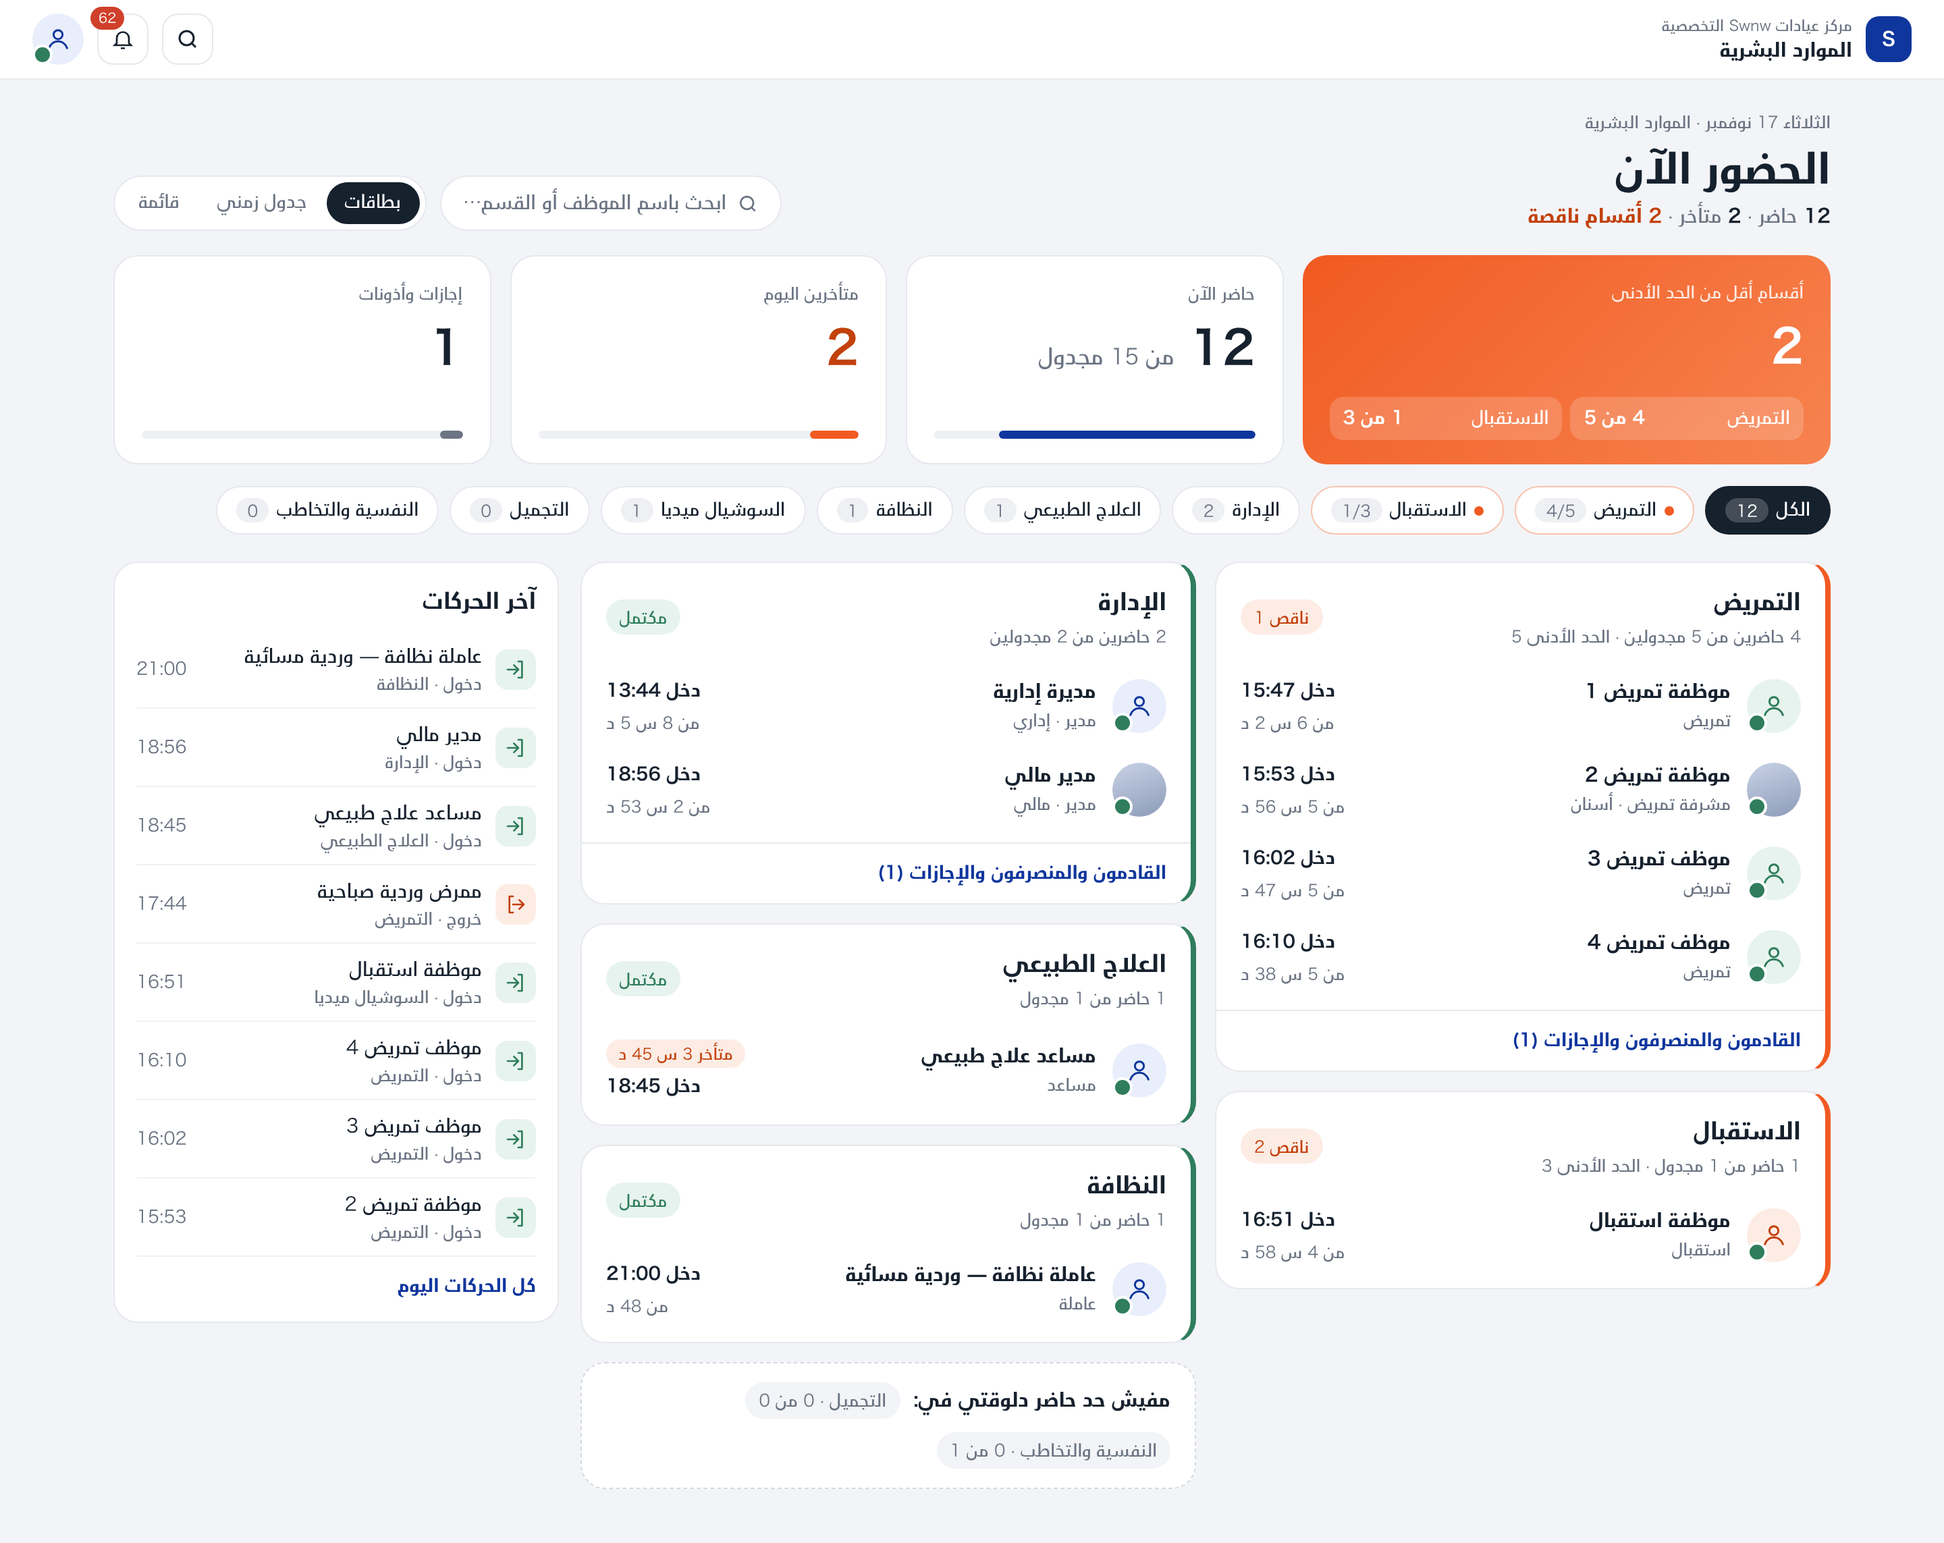
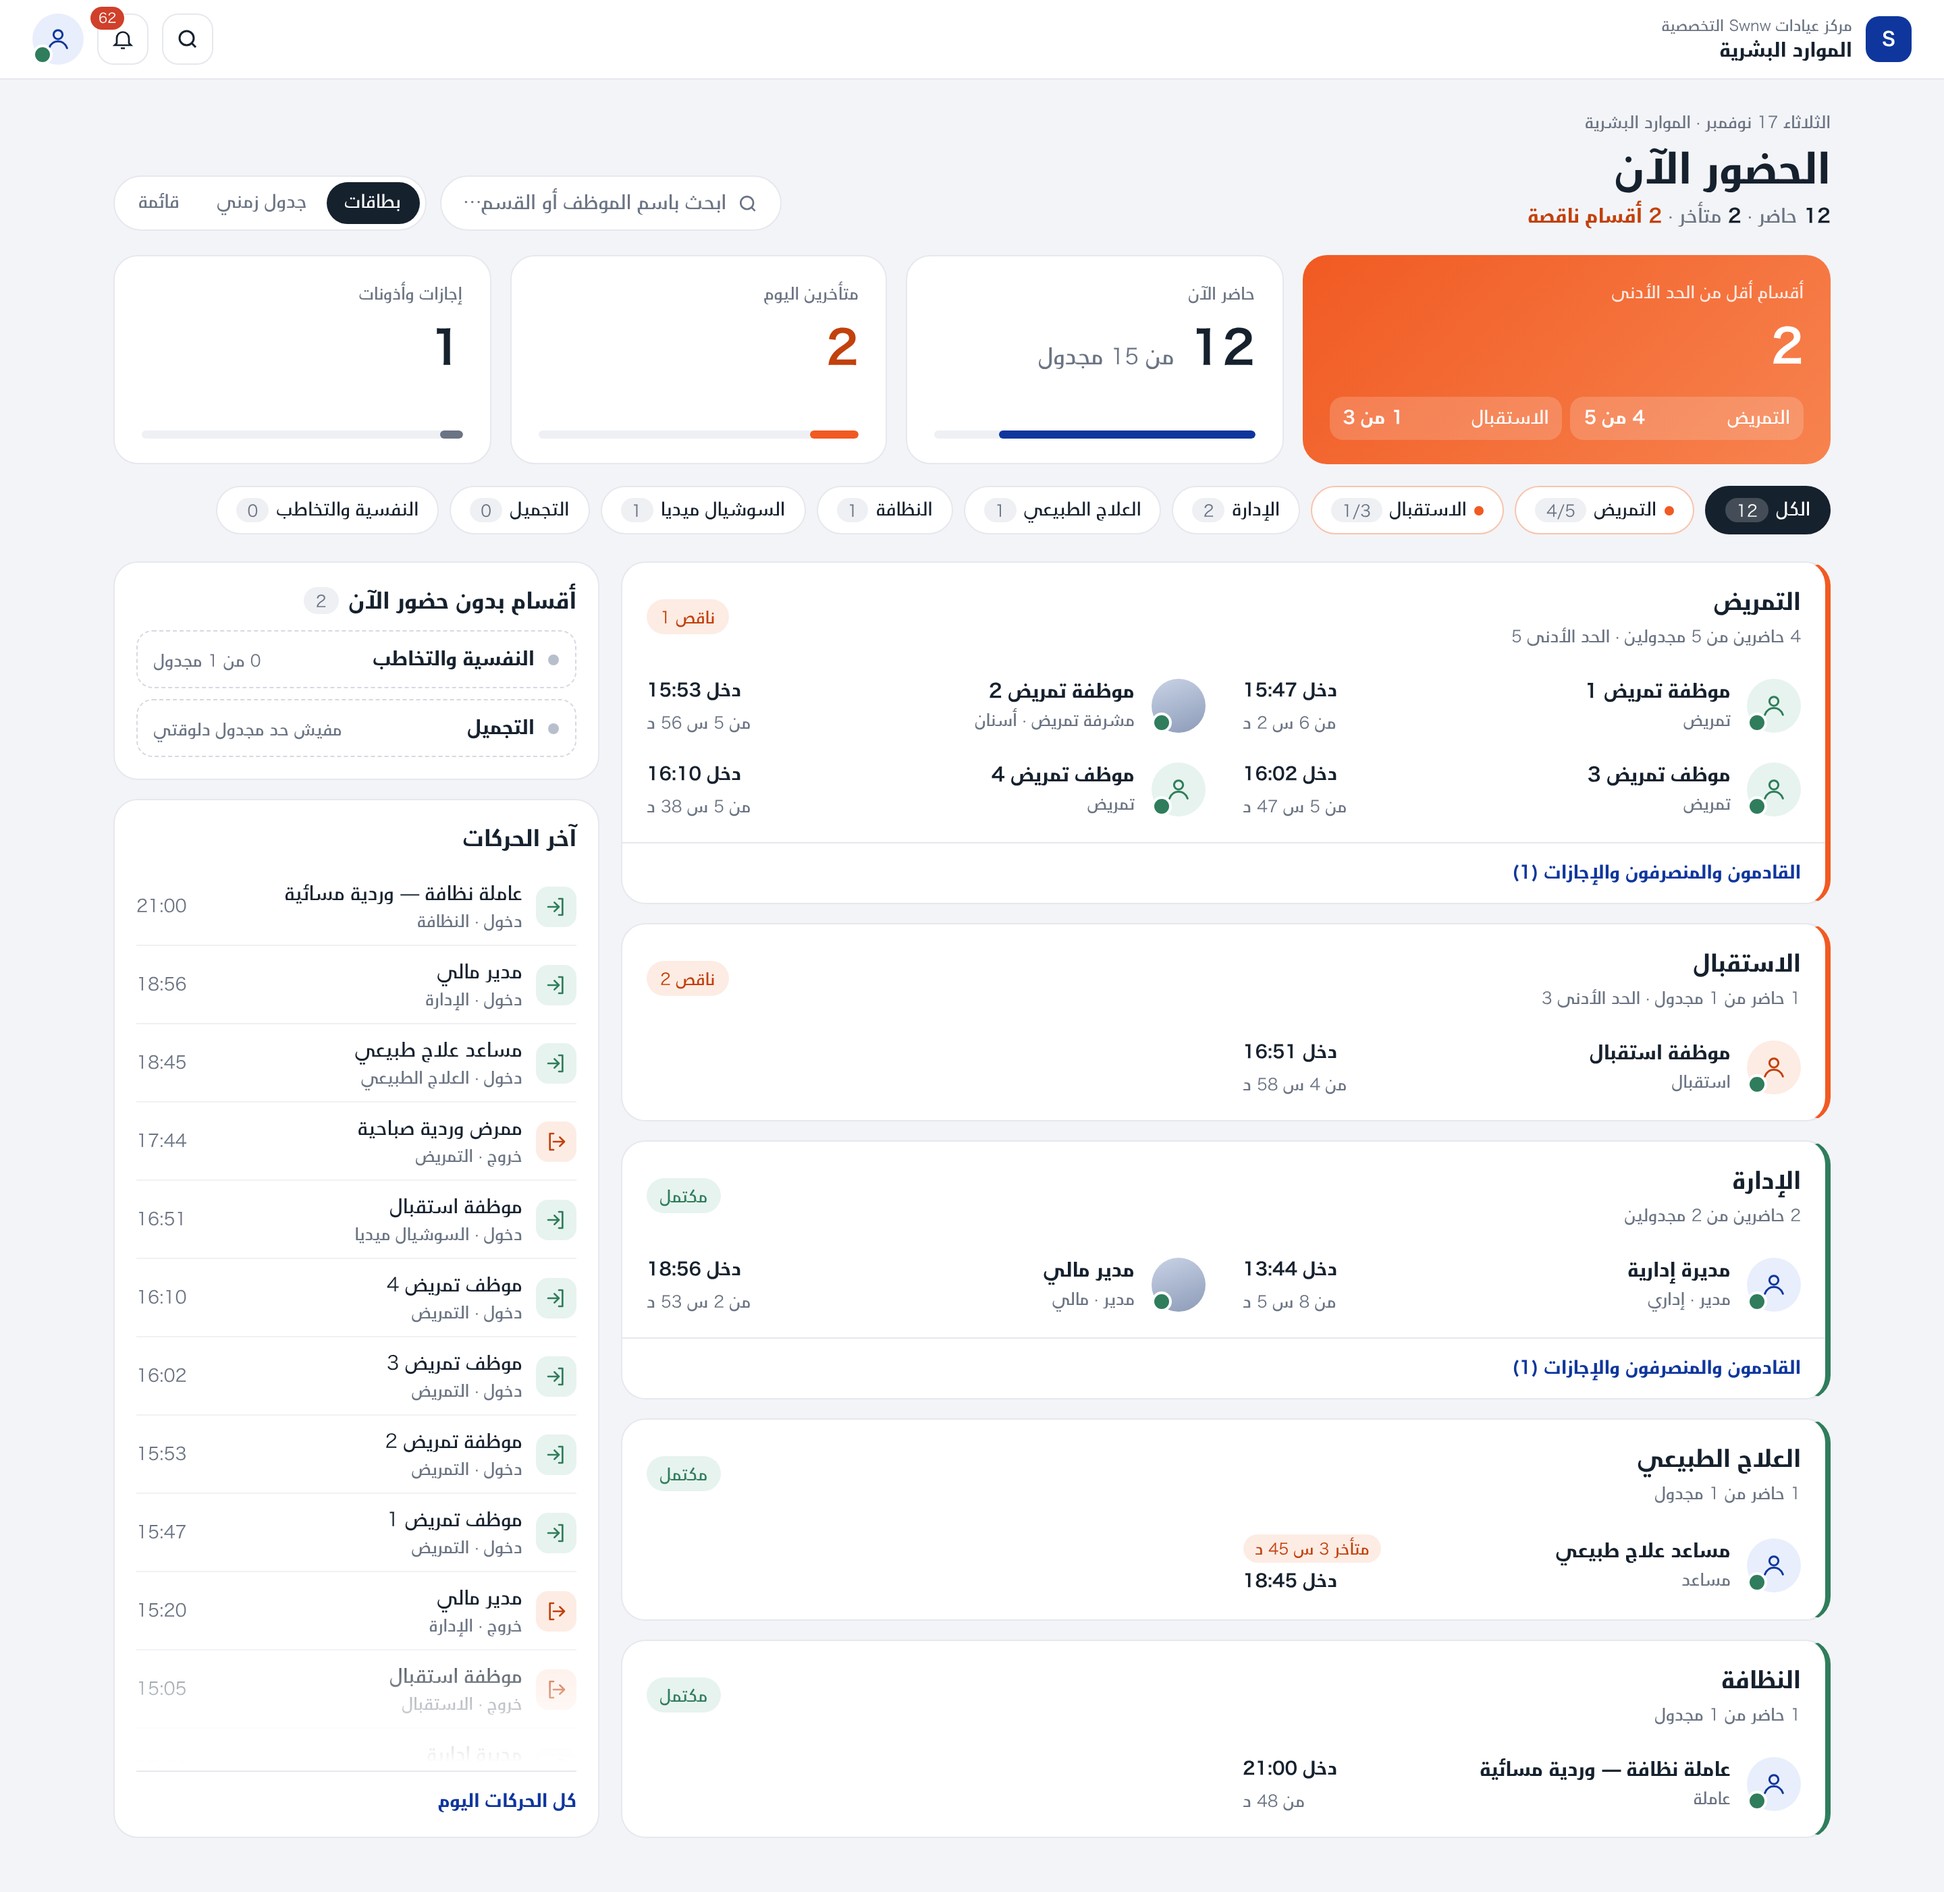
docs: HR presence mockup — owner's split layout (wide dept cards + side column with no-attendance and movements, equal heights)
Claude-Session: https://claude.ai/code/session_01UqVZHZihapbfrPRQkyZErA

diff --git a/docs/ui-references/mockups/hr-presence.html b/docs/ui-references/mockups/hr-presence.html
@@ -104,6 +104,24 @@ main{max-width:1320px;margin:0 auto;padding:22px 24px 40px}
 .mv .out{background:#FDECE4}.mv .out svg{stroke:#C2410C}
 .mv .tx{flex:1;min-width:0}.mv .tx small{color:var(--muted);display:block;font-size:12px}
 .mv time{color:var(--muted);font-variant-numeric:tabular-nums;font-size:13px}
+
+/* split layout: wide dept cards (right) + side column (left), equal heights */
+.grid{grid-template-columns:1fr 360px;align-items:stretch}
+.depts{columns:auto;display:flex;flex-direction:column;gap:14px}
+.depts>*{margin:0}
+.dept .rows{display:grid;grid-template-columns:repeat(auto-fill,minmax(300px,1fr));column-gap:8px}.dept .nm .t{white-space:normal}
+.side-col{display:flex;flex-direction:column;gap:14px;min-height:0;position:relative}
+.side-col .side{position:static}
+.noatt h3,.moves h3{display:flex;align-items:center;gap:8px}
+.cnt{background:#EEF0F4;color:var(--muted);font-size:12px;border-radius:999px;padding:1px 9px;font-weight:400}
+.na{display:flex;align-items:center;gap:10px;padding:10px 12px;border:1px dashed #D5D9E2;border-radius:12px;margin-top:8px}
+.na b{font-size:14px}.na small{color:var(--muted);font-size:12px;margin-inline-start:auto}
+.dotg{width:8px;height:8px;border-radius:50%;background:#B8BFCC;flex:none}
+/* movements fill exactly the remaining height; extra rows are hidden, never stretch the page */
+.moves{flex:1 1 0;min-height:0;display:flex;flex-direction:column}
+.mvlist{flex:1 1 0;min-height:0;overflow:hidden;-webkit-mask-image:linear-gradient(#000 85%,transparent);mask-image:linear-gradient(#000 85%,transparent)}
+.allmv{border-top:1px solid var(--line);padding:12px 0 0;margin-top:6px}
+@media (max-width:900px){.side-col{order:2}.moves{flex:none}.mvlist{max-height:420px;flex:none}}
 @media (max-width:900px){
   .kpis{grid-template-columns:1fr 1fr}
   .k.hero{grid-column:1/-1}
@@ -220,13 +238,18 @@ main{max-width:1320px;margin:0 auto;padding:22px 24px 40px}
             <li class="row"><span class="av"><svg><use href="#person"/></svg></span><div class="nm"><span class="t">عاملة نظافة — وردية مسائية</span><small>عاملة</small></div><div class="meta"><b>دخل 21:00</b><span>من 48 د</span></div></li>
           </ul>
         </article>
-
-      <div class="empty"><b>مفيش حد حاضر دلوقتي في:</b><span class="tag">التجميل · 0 من 0</span><span class="tag">النفسية والتخاطب · 0 من 1</span></div>
       </div>
     </div>
 
-    <aside class="side">
-      <h3>آخر الحركات</h3>
+    <aside class="side-col">
+      <section class="side noatt">
+        <h3>أقسام بدون حضور الآن <span class="cnt">2</span></h3>
+        <div class="na"><span class="dotg"></span><b>النفسية والتخاطب</b><small>0 من 1 مجدول</small></div>
+        <div class="na"><span class="dotg"></span><b>التجميل</b><small>مفيش حد مجدول دلوقتي</small></div>
+      </section>
+      <section class="side moves">
+        <h3>آخر الحركات</h3>
+        <div class="mvlist">
       <div class="mv"><span class="ic in"><svg><use href="#in"/></svg></span><div class="tx">عاملة نظافة — وردية مسائية<small>دخول · النظافة</small></div><time>21:00</time></div>
       <div class="mv"><span class="ic in"><svg><use href="#in"/></svg></span><div class="tx">مدير مالي<small>دخول · الإدارة</small></div><time>18:56</time></div>
       <div class="mv"><span class="ic in"><svg><use href="#in"/></svg></span><div class="tx">مساعد علاج طبيعي<small>دخول · العلاج الطبيعي</small></div><time>18:45</time></div>
@@ -235,7 +258,15 @@ main{max-width:1320px;margin:0 auto;padding:22px 24px 40px}
       <div class="mv"><span class="ic in"><svg><use href="#in"/></svg></span><div class="tx">موظف تمريض 4<small>دخول · التمريض</small></div><time>16:10</time></div>
       <div class="mv"><span class="ic in"><svg><use href="#in"/></svg></span><div class="tx">موظف تمريض 3<small>دخول · التمريض</small></div><time>16:02</time></div>
       <div class="mv"><span class="ic in"><svg><use href="#in"/></svg></span><div class="tx">موظفة تمريض 2<small>دخول · التمريض</small></div><time>15:53</time></div>
-      <a class="more" style="padding:12px 0 0;border-top:0">كل الحركات اليوم</a>
+      <div class="mv"><span class="ic in"><svg><use href="#in"/></svg></span><div class="tx">موظف تمريض 1<small>دخول · التمريض</small></div><time>15:47</time></div>
+      <div class="mv"><span class="ic out"><svg><use href="#out"/></svg></span><div class="tx">مدير مالي<small>خروج · الإدارة</small></div><time>15:20</time></div>
+      <div class="mv"><span class="ic out"><svg><use href="#out"/></svg></span><div class="tx">موظفة استقبال<small>خروج · الاستقبال</small></div><time>15:05</time></div>
+      <div class="mv"><span class="ic in"><svg><use href="#in"/></svg></span><div class="tx">مديرة إدارية<small>دخول · الإدارة</small></div><time>13:44</time></div>
+      <div class="mv"><span class="ic in"><svg><use href="#in"/></svg></span><div class="tx">ممرض وردية صباحية<small>دخول · التمريض</small></div><time>09:58</time></div>
+      <div class="mv"><span class="ic out"><svg><use href="#out"/></svg></span><div class="tx">عامل صيانة<small>خروج · الإدارة</small></div><time>09:30</time></div>
+        </div>
+        <a class="more allmv">كل الحركات اليوم</a>
+      </section>
     </aside>
   </div>
 </main>
